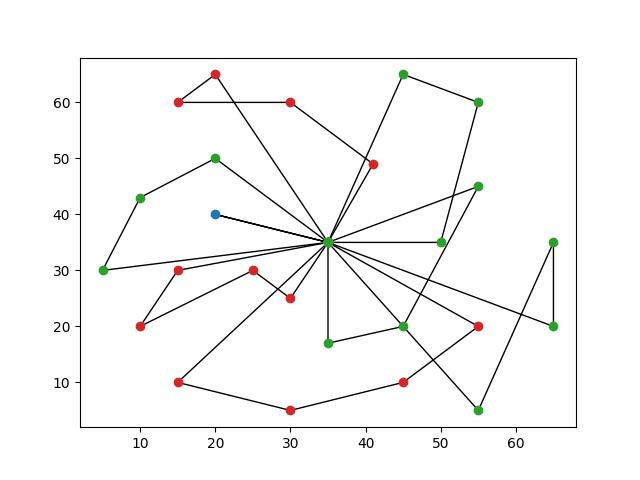
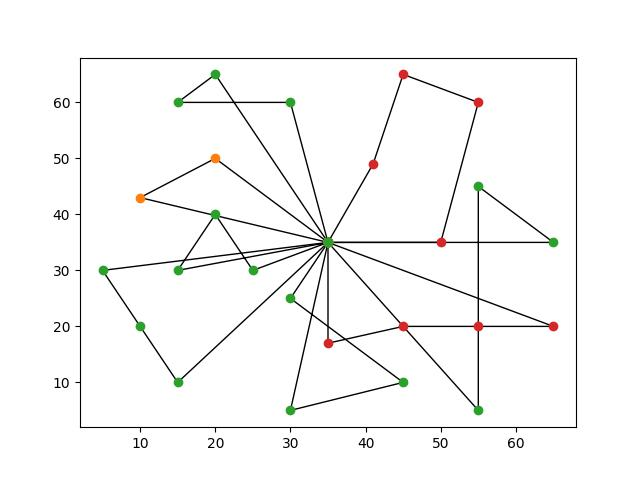
11주차 발표준비

diff --git a/main.py b/main.py
@@ -2,14 +2,14 @@ import copy
 import random
 from typing import List
 
-from config import RECOMBINATION_RATE, MIGRATION, MAX_GENERATIONS, POPULATION_SIZE
+from config import RECOMBINATION_RATE, MIGRATION, MAX_GENERATIONS, POPULATION_SIZE, FILE_SAVE
 from domain.Chromosome import Chromosome
 from domain.Population import Population
 from log.log_config import log
 from operators.OperatorConfig import OperatorConfig
 
-
-# from utils.graph_utils import draw_routes
+from utils.graph_utils import draw_routes
+from utils.file_utils import save_file
 
 
 def main():
@@ -17,8 +17,11 @@ def main():
     population_2 = Population()
     log.info(f"Before--------------------------------------")
     log.info(f"pop1_best : {population_1.chromosomes[0]}")
-    log.info(f"pop2_best : {population_2.chromosomes[0]}")
-    # draw_routes(population_1.chromosomes[0])
+    log.info(f"pop1_worst : {population_1.chromosomes[POPULATION_SIZE - 1]}")
+    log.info(f"pop1_std : {population_1.std}")
+    log.debug(f"pop2_best : {population_2.chromosomes[0]}")
+    log.debug(f"pop1_worst : {population_2.chromosomes[POPULATION_SIZE - 1]}")
+    draw_routes(population_1.chromosomes[0])
 
     log.debug(f"GA--------------------------------------")
     for gen_i in range(MAX_GENERATIONS):
@@ -26,16 +29,21 @@ def main():
         do_ga(population_2)
         migration(population_1, population_2)
         log.debug(f"[{gen_i}] pop1 len: {len(population_1.chromosomes)}")
-        log.info(f"[{gen_i}] pop1 Best: {population_1.chromosomes[0]}")
-        log.info(f"[{gen_i}] pop2 Best: {population_2.chromosomes[0]}")
+        log.debug(f"[{gen_i}] pop1 Best: {population_1.chromosomes[0]}")
+        log.debug(f"[{gen_i}] pop1_worst : {population_1.chromosomes[POPULATION_SIZE - 1]}")
+        log.debug(f"[{gen_i}] pop2 Best: {population_2.chromosomes[0]}")
+        log.debug(f"[{gen_i}] pop1_worst : {population_2.chromosomes[POPULATION_SIZE - 1]}")
 
     log.info(f"After--------------------------------------")
     log.info(f"pop1_best : {population_1.chromosomes[0]}")
-    log.info(f"pop2_best : {population_2.chromosomes[0]}")
-    # if population_1.chromosomes[0].fitness < population_2.chromosomes[0].fitness:
-    #     draw_routes(population_1.chromosomes[0])
-    # else:
-    #     draw_routes(population_2.chromosomes[0])
+    log.info(f"pop1_worst : {population_1.chromosomes[POPULATION_SIZE - 1]}")
+    log.info(f"pop1_std : {population_1.std}")
+    log.debug(f"pop2_best : {population_2.chromosomes[0]}")
+    log.debug(f"pop1_worst : {population_2.chromosomes[POPULATION_SIZE - 1]}")
+    if population_1.chromosomes[0].fitness < population_2.chromosomes[0].fitness:
+        draw_routes(population_1.chromosomes[0])
+    else:
+        draw_routes(population_2.chromosomes[0])
 
     log.debug(f"pop1--------------------------------------")
     for idx, chromosome in enumerate(population_1.chromosomes):
@@ -44,6 +52,11 @@ def main():
     log.debug(f"pop2--------------------------------------")
     for idx, chromosome in enumerate(population_2.chromosomes):
         log.debug(f"[{idx}]\t{chromosome}")
+
+    if FILE_SAVE:
+        chrom = population_1.chromosomes[0]
+        save_file(chrom.routes,
+                  file_name=f"route_{chrom.vehicle_num}_{round(chrom.total_distance, 1)}")
 
 
 def migration(pop1: Population, pop2: Population) -> None:

diff --git a/domain/Chromosome.py b/domain/Chromosome.py
@@ -52,10 +52,6 @@ class Chromosome:
                 cur_waiting += (ready_time - cur_time)
                 cur_time = ready_time
 
-            # TODO -- Due time이 Service 시간 포함(순서 변경)인지 아닌지
-            #   # + Service
-            #  cur_time += cur_customer.service_time
-
             log.debug(f"[{cur_customer_idx}] -------------------------------------------------")
             log.debug(f"Demand Check {cur_demand}(cur) > {Dataset.capacity}(cap)")
             log.debug(f"Cus_Due Check {cur_time}(cur_t) > {cur_customer.due_time}(cus_due)")
@@ -75,7 +71,6 @@ class Chromosome:
             elif cur_time + Dataset.distance[cur_customer_idx][0] > Dataset.customers[0].due_time:
                 is_fit = False
 
-            # TODO -- Service Time 추가
             cur_time += cur_customer.service_time
             log.debug(f"[{cur_customer_idx}] is_fit: {is_fit}")
 
@@ -129,12 +124,5 @@ class Chromosome:
             # 저장
             total_routes.append(cur_route)
             waiting_time.append(cur_waiting)
-
-        # # Constraint: Vehicle Num
-        # if len(total_routes) <= dataset.vehicle_num:
-        #     return total_routes, waiting_time, total_distance
-        # else:
-        #     log.error(f"[End] Too Many Routes {total_routes}")
-        #     return None, None, None
 
         return total_routes, waiting_time, total_distance

diff --git a/domain/Population.py b/domain/Population.py
@@ -18,6 +18,7 @@ class Population:
         self.max_initial_dist = max(self.chromosomes, key=lambda x: x.total_distance).total_distance
         log.debug(f"max_initial: {self.max_initial_dist}")
         self.total_fitness = 0
+        self.std = 0
         self.sync_instances()
 
     def get_fitness(self, chromosome):
@@ -27,12 +28,16 @@ class Population:
     # Chromosome Fitness 동기화 및 정렬(오름차순)q
     def sync_instances(self):
         self.total_fitness = 0
+        fitness_list = []
         for chromosome in self.chromosomes:
             fitness = self.get_fitness(chromosome)
             chromosome.fitness = fitness
             self.total_fitness += fitness
+            fitness_list.append(fitness)
 
         self.chromosomes.sort(key=lambda x: x.fitness)
+
+        self.std = numpy.std(fitness_list)
 
     @staticmethod
     def make_pop() -> List[Chromosome]:

diff --git a/utils/file_utils.py b/utils/file_utils.py
@@ -1,14 +1,17 @@
 import pickle
+import os
+
+filepath = os.path.join(os.path.abspath(os.path.dirname(os.path.dirname(__file__))), "resources/candidates")
 
 
 def save_file(file, file_name):
-    with open(f"resources/candidates/{file_name}.pkl", "wb") as f:
+    with open(os.path.join(filepath, f"{file_name}.pkl"), "wb") as f:
         pickle.dump(file, f)
         f.close()
 
 
 def read_file(file_name):
-    with open(f"resources/candidates/{file_name}.pkl", "rb") as f:
+    with open(os.path.join(filepath, f"{file_name}.pkl"), "rb") as f:
         load = pickle.load(f)
         f.close()
     return load

diff --git a/config.py b/config.py
@@ -18,12 +18,12 @@
         DCR_M: 30%
 """
 INSTANCE_NAME = "r101"
-CUSTOMER_SIZE = 100
+CUSTOMER_SIZE = 25
 
 POPULATION_SIZE = 50
-MAX_GENERATIONS = 100
-MIGRATION = 3
-RECOMBINATION_RATE = 60
+MAX_GENERATIONS = 10000
+MIGRATION = 5
+RECOMBINATION_RATE = 10
 MUTATION_RATE = 6
 
-FILE_SAVE = False
+FILE_SAVE = True

diff --git a/__init__.py b/__init__.py
@@ -15,4 +15,5 @@ if __name__ == '__main__':
     OperatorConfig()
     main()
     end = time.time()
-    log.info(f"Origin Runtime: {end - start}")
+    log.info(f"Runtime: {end - start}")
+
